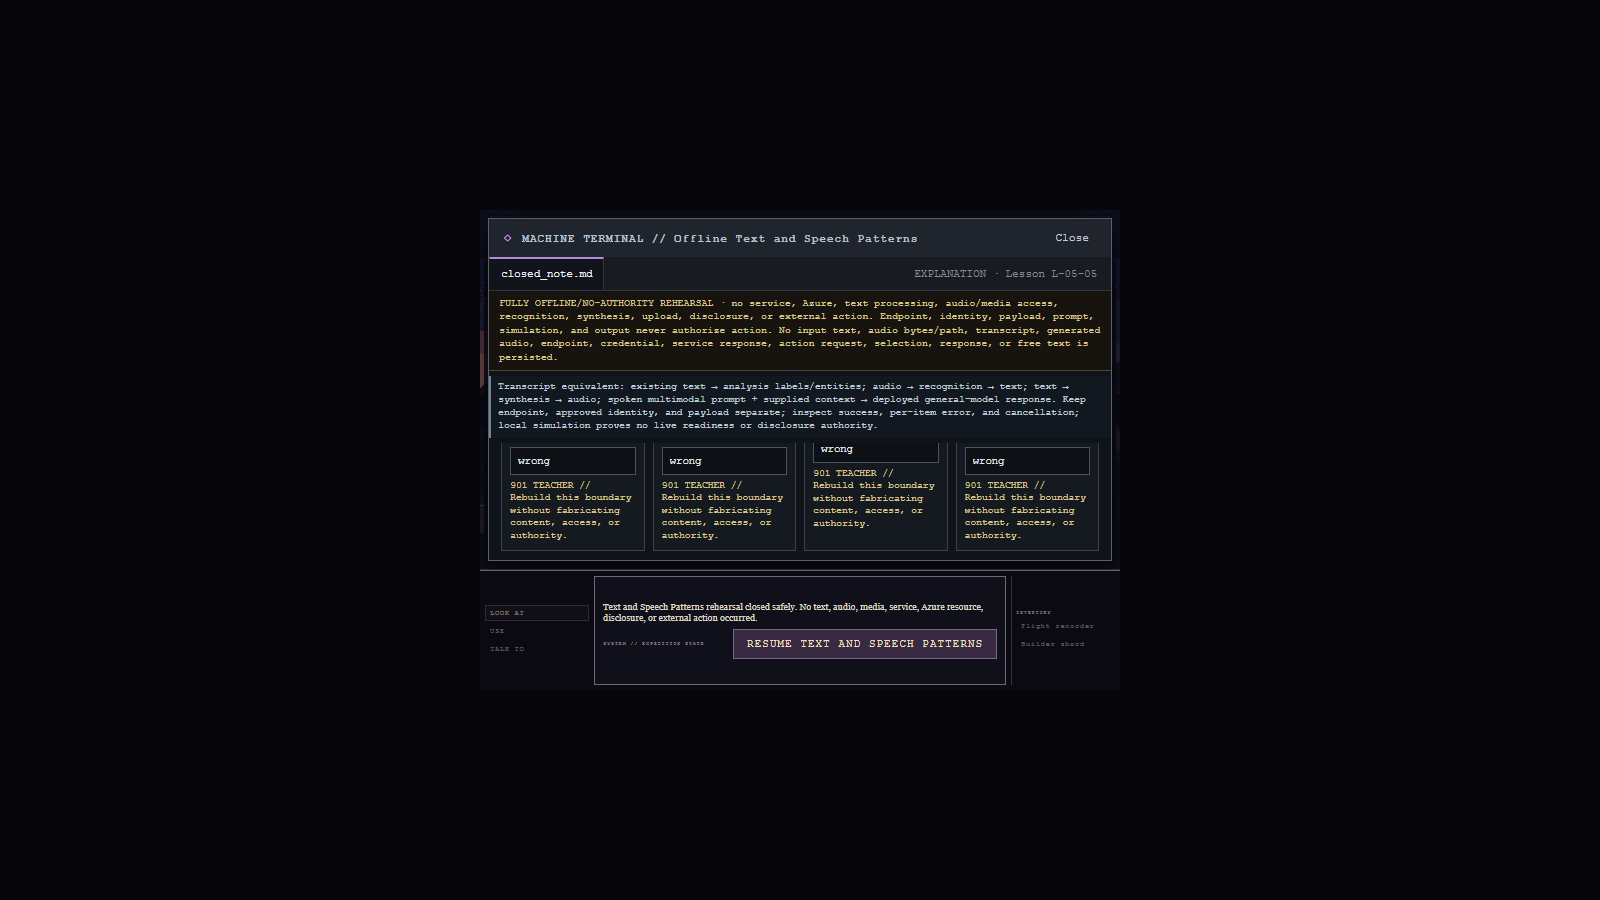
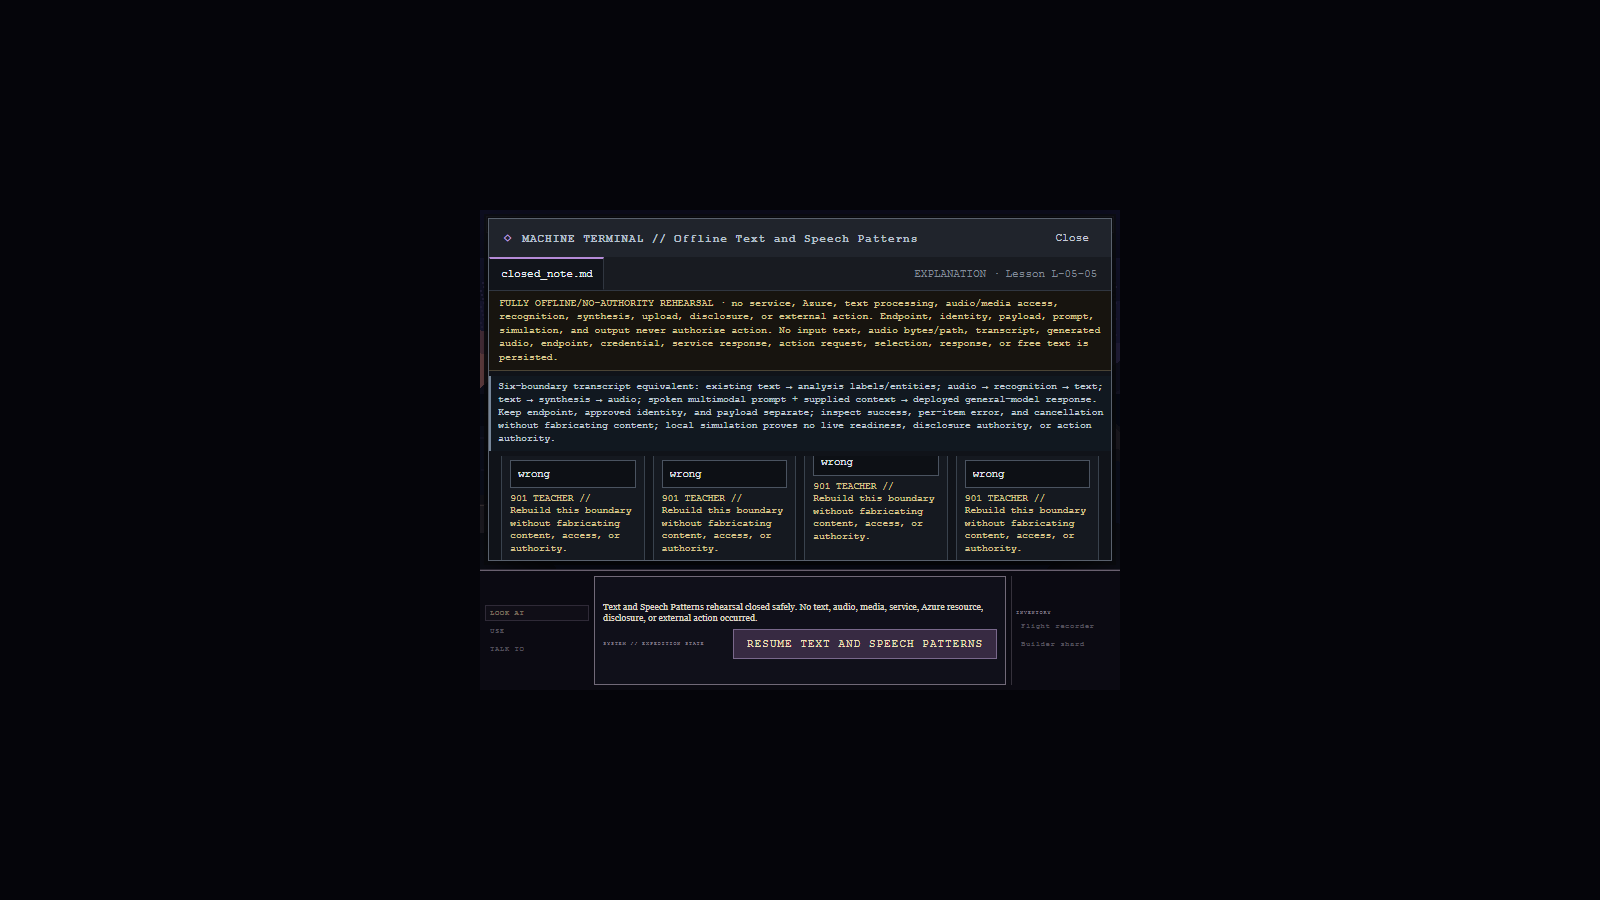
Round 21 step 5 Exercise Agent checkpoint

Changed region(s): [[0.3125, 0.4044, 0.6875, 0.6222]]

diff --git a/horizon-archive-game/test/textSpeechPatternExercise.test.js b/horizon-archive-game/test/textSpeechPatternExercise.test.js
@@ -2,11 +2,12 @@ import test from "node:test";
 import assert from "node:assert/strict";
 import primary from "../../curriculum/lessons/L-05-05/reference_primary_answers.json" with { type: "json" };
 import transfer from "../../curriculum/lessons/L-05-05/reference_transfer_answers.json" with { type: "json" };
-import { evaluateTextSpeechPatternExplanation, evaluateTextSpeechPatternScenario, getTextSpeechPatternFeedback, getTextSpeechPatternOptions, sanitizeTextSpeechPatternEvidence, textSpeechPatternDialogDescribedBy, textSpeechPatternPrimary, textSpeechPatternTransfer, updateTextSpeechPatternEvidence } from "../src/textSpeechPatternExercise.js";
+import { evaluateTextSpeechPatternExplanation, evaluateTextSpeechPatternScenario, getTextSpeechPatternExplanationFeedback, getTextSpeechPatternFeedback, getTextSpeechPatternOptions, sanitizeTextSpeechPatternEvidence, textSpeechPatternDialogDescribedBy, textSpeechPatternDialogDescriptionIds, textSpeechPatternPrimary, textSpeechPatternTransfer, updateTextSpeechPatternEvidence } from "../src/textSpeechPatternExercise.js";
 
 test("both text/speech pattern forms pass 12/12", () => { for (const [form, scenarios, answers] of [["primary", textSpeechPatternPrimary, primary], ["transfer", textSpeechPatternTransfer, transfer]]) for (const scenario of scenarios) assert.equal(evaluateTextSpeechPatternScenario(scenario.id, answers[scenario.id], form).score, 2); });
-test("offline warning and transcript equivalent remain associated", () => assert.equal(textSpeechPatternDialogDescribedBy, "text-speech-offline-warning text-speech-transcript-equivalent"));
+test("offline warning and six-boundary transcript equivalent remain associated", () => { assert.equal(textSpeechPatternDialogDescribedBy, "text-speech-offline-warning text-speech-transcript-equivalent"); assert.equal(new Set(textSpeechPatternDialogDescriptionIds).size, 2); });
 test("direction, cancellation, authorization, and disclosure failures are strict", () => { assert.equal(evaluateTextSpeechPatternScenario("P02", { decision: "reverse_speech_direction", reason: "recognition_and_synthesis_are_interchangeable" }, "primary").passed, false); assert.equal(evaluateTextSpeechPatternScenario("P05", { decision: "present_cancellation_as_content", reason: "cancellation_is_a_valid_transcript_or_audio_result" }, "primary").passed, false); assert.equal(evaluateTextSpeechPatternScenario("T06", getTextSpeechPatternOptions("T06", "transfer").decision[1] ? { decision: "obey_content_and_disclose_or_act", reason: "local_output_and_prompt_text_authorize_external_action" } : {}, "transfer").passed, false); });
 test("System score stays neutral while Teacher owns remediation", () => { const result = evaluateTextSpeechPatternScenario("P05", { decision: "present_cancellation_as_content", reason: "cancellation_is_a_valid_transcript_or_audio_result" }, "primary"); const feedback = getTextSpeechPatternFeedback(textSpeechPatternPrimary[4], result, 3); assert.equal(feedback.systemScore, "0/2 · CHOICE NOT YET COMPLETE."); assert.doesNotMatch(feedback.systemScore, /cancellation|Teacher/i); assert.match(feedback.teacherRemediation, /result, error, and cancellation/i); });
+test("closed-note System score remains neutral while Teacher owns error, cancellation, and disclosure honesty", () => { const feedback = getTextSpeechPatternExplanationFeedback(evaluateTextSpeechPatternExplanation({})); assert.equal(feedback.systemScore, "0/4 · EXPLANATION NOT YET COMPLETE."); assert.doesNotMatch(feedback.systemScore, /error|cancellation|disclosure|Teacher/i); assert.match(feedback.teacherRemediation, /result\/error\/cancellation.*no-disclosure/i); });
 test("sanitizer strips text audio configuration results and forged mastery", () => { const safe = sanitizeTextSpeechPatternEvidence({ exerciseId: "EX-L0505-TEXT-SPEECH-PATTERNS", masteryStatus: "mastered", inputText: "x", audioBytes: "x", audioPath: "x", transcript: "x", generatedAudio: "x", endpoint: "x", credential: "x", serviceResponse: "x", externalActionRequest: "x", response: "x", choices: "x", freeText: "x" }); assert.notEqual(safe.masteryStatus, "mastered"); for (const key of ["inputText", "audioBytes", "audioPath", "transcript", "generatedAudio", "endpoint", "credential", "serviceResponse", "externalActionRequest", "response", "choices", "freeText"]) assert.equal(key in safe, false); });
 test("complete evidence reaches strict mastery without prose", () => { let evidence = updateTextSpeechPatternEvidence(null, {}); for (const [form, scenarios, answers] of [["primary", textSpeechPatternPrimary, primary], ["transfer", textSpeechPatternTransfer, transfer]]) for (const scenario of scenarios) evidence = updateTextSpeechPatternEvidence(evidence, { form, scenarioId: scenario.id, correctness: evaluateTextSpeechPatternScenario(scenario.id, answers[scenario.id], form).correctness }); evidence = updateTextSpeechPatternEvidence(evidence, { form: "explanation", scenarioId: "explanation", correctness: evaluateTextSpeechPatternExplanation({ capability_direction: "choose capability from input and required output including recognition audio to text and synthesis text to audio", configuration_payload: "keep endpoint identity and payload separate and never hardcode credentials", result_cancellation: "inspect per item result error and cancellation and never fabricate content", simulation_authority: "offline output proves no live readiness and never authorizes disclosure or external action" }).correctness, masteryStatus: "mastered" }); assert.equal(evidence.masteryStatus, "mastered"); });

diff --git a/horizon-archive-game/src/App.jsx b/horizon-archive-game/src/App.jsx
@@ -2964,7 +2964,7 @@ export function App() {
           <TerminalShell exerciseId={textSpeechPatternExercise.exercise_id} title="Offline Text and Speech Patterns" filename={textSpeechPatternSession.phase === "explanation" ? "closed_note.md" : `${textSpeechPatternSession.form}_patterns.json`} lessonId={textSpeechPatternExercise.lesson_id} statusText={textSpeechPatternSession.phase.toUpperCase()} closeLabel="Exit Text and Speech Patterns" describedBy={textSpeechPatternDialogDescribedBy} restoreFocusTo={terminalTriggerRef.current} onClose={exitTextSpeechPatterns}>
             <section className="model-choice-workspace text-speech-pattern-workspace">
               <p id="text-speech-offline-warning" className="model-choice-boundary" role="note">FULLY OFFLINE/NO-AUTHORITY REHEARSAL · no service, Azure, text processing, audio/media access, recognition, synthesis, upload, disclosure, or external action. Endpoint, identity, payload, prompt, simulation, and output never authorize action. No input text, audio bytes/path, transcript, generated audio, endpoint, credential, service response, action request, selection, response, or free text is persisted.</p>
-              <p id="text-speech-transcript-equivalent" className="speech-transcript">Transcript equivalent: existing text → analysis labels/entities; audio → recognition → text; text → synthesis → audio; spoken multimodal prompt + supplied context → deployed general-model response. Keep endpoint, approved identity, and payload separate; inspect success, per-item error, and cancellation; local simulation proves no live readiness or disclosure authority.</p>
+              <p id="text-speech-transcript-equivalent" className="speech-transcript">Six-boundary transcript equivalent: existing text → analysis labels/entities; audio → recognition → text; text → synthesis → audio; spoken multimodal prompt + supplied context → deployed general-model response. Keep endpoint, approved identity, and payload separate; inspect success, per-item error, and cancellation without fabricating content; local simulation proves no live readiness, disclosure authority, or action authority.</p>
               {textSpeechPatternSession.phase === "explanation" ? (
                 <form className="model-choice-form" onSubmit={checkTextSpeechPatternExplanation}><header><p className="pane-label">PILOT // CLOSED-NOTE PATTERN OWNER</p><h2>Explain capability direction, client boundaries, honest results, and simulation authority</h2><p>Your prose is session-only. SYSTEM scores it; the 901 TEACHER owns remediation and readiness.</p></header><div className="model-choice-fields text-speech-pattern-explanation">{textSpeechPatternExplanationDimensions.map((dimension)=>{const correct=textSpeechPatternSession.explanationResult?.correctness[dimension],id=`text-speech-pattern-explanation-${dimension}-feedback`;return <label key={dimension}><span>{dimension.replaceAll("_"," ")}</span><input aria-label={`Closed-note text speech ${dimension}`} aria-invalid={textSpeechPatternSession.explanationResult?!correct:undefined} aria-describedby={textSpeechPatternSession.explanationResult?id:undefined} value={textSpeechPatternSession.explanationResponse[dimension]} onChange={(event)=>setTextSpeechPatternSession({...textSpeechPatternSession,explanationResponse:{...textSpeechPatternSession.explanationResponse,[dimension]:event.target.value},explanationResult:null,ownershipConfirmed:false})}/>{textSpeechPatternSession.explanationResult&&<small id={id}>{correct?"SYSTEM // Confirmed.":"901 TEACHER // Rebuild this boundary without fabricating content, access, or authority."}</small>}</label>;})}</div><section className="terminal-console model-choice-output"><div className="console-heading-row"><strong>SYSTEM // CLOSED-NOTE VALIDATOR</strong><button className="run-action" type="submit">Check text/speech explanation</button></div><div role="status" aria-live="polite">{getTextSpeechPatternExplanationFeedback(textSpeechPatternSession.explanationResult).systemScore}</div>{getTextSpeechPatternExplanationFeedback(textSpeechPatternSession.explanationResult).teacherRemediation&&<p className="teacher-remediation"><strong>901 TEACHER // TEXT/SPEECH REMEDIATION</strong><span>{getTextSpeechPatternExplanationFeedback(textSpeechPatternSession.explanationResult).teacherRemediation}</span></p>}{textSpeechPatternSession.explanationResult?.passed&&<><label className="ownership-confirmation"><input type="checkbox" checked={textSpeechPatternSession.ownershipConfirmed} onChange={(event)=>setTextSpeechPatternSession({...textSpeechPatternSession,ownershipConfirmed:event.target.checked})}/>I produced this text/speech explanation myself without notes.</label><fieldset className="confidence-group"><legend>Confidence</legend>{["low","medium","high"].map(value=><label key={value}><input type="radio" name="text-speech-pattern-confidence" checked={textSpeechPatternEvidence?.confidence===value} onChange={()=>setTextSpeechPatternEvidence(previous=>updateTextSpeechPatternEvidence(previous,{confidence:value}))}/>{value}</label>)}</fieldset><button className="confirm-action" type="button" onClick={acknowledgeTextSpeechPatternMastery}>Acknowledge strict mastery</button></>}</section></form>
               ) : textSpeechPatternSession.complete ? (

diff --git a/horizon-archive-game/src/textSpeechPatternExercise.js b/horizon-archive-game/src/textSpeechPatternExercise.js
@@ -27,7 +27,7 @@ export function evaluateTextSpeechPatternScenario(id, response, form = id?.start
 export function evaluateTextSpeechPatternExplanation(response) { const expected = { capability_direction: "choose_capability_from_input_and_required_output_including_recognition_audio_to_text_and_synthesis_text_to_audio", configuration_payload: "keep_endpoint_identity_and_payload_separate_and_never_hardcode_credentials", result_cancellation: "inspect_per_item_result_error_and_cancellation_and_never_fabricate_content", simulation_authority: "offline_output_proves_no_live_readiness_and_never_authorizes_disclosure_or_external_action" }; const correctness = Object.fromEntries(textSpeechPatternExplanationDimensions.map((key) => [key, normalize(response[key]) === expected[key]])); return { correctness, score: Object.values(correctness).filter(Boolean).length, passed: Object.values(correctness).every(Boolean) }; }
 export function textSpeechPatternRemediation(_scenario, _response, level) { if (level <= 1) return "Name the input modality, required output, and failed text, speech, client, result, or authority boundary."; if (level === 2) return "Choose the smallest sufficient capability and separate endpoint, approved identity, and payload."; return "Inspect result, error, and cancellation states; local simulation never proves live readiness or authorizes disclosure or action."; }
 export function getTextSpeechPatternFeedback(scenario, result, level) { if (!result) return { systemScore: "Awaiting both text/speech pattern dimensions.", teacherRemediation: null }; return { systemScore: `${result.score}/2 · ${result.passed ? "CHOICE PASS · both dimensions confirmed." : "CHOICE NOT YET COMPLETE."}`, teacherRemediation: result.passed ? null : textSpeechPatternRemediation(scenario, result, level) }; }
-export function getTextSpeechPatternExplanationFeedback(result) { if (!result) return { systemScore: "Awaiting the learner's four-part text/speech explanation.", teacherRemediation: null }; return { systemScore: `${result.score}/4 · ${result.passed ? "PASS" : "EXPLANATION NOT YET COMPLETE."}`, teacherRemediation: result.passed ? null : "Rebuild capability direction, endpoint/identity/payload separation, honest result/cancellation handling, and simulation/no-action authority." }; }
+export function getTextSpeechPatternExplanationFeedback(result) { if (!result) return { systemScore: "Awaiting the learner's four-part text/speech explanation.", teacherRemediation: null }; return { systemScore: `${result.score}/4 · ${result.passed ? "PASS" : "EXPLANATION NOT YET COMPLETE."}`, teacherRemediation: result.passed ? null : "Rebuild capability direction, endpoint/identity/payload separation, honest result/error/cancellation handling, and simulation/no-disclosure/no-action authority." }; }
 
 const complete = (correctness, scenarios) => scenarios.every((scenario) => exercise.dimensions.every((key) => correctness[scenario.id]?.[key] === true));
 export function sanitizeTextSpeechPatternEvidence(value) { if (!value || typeof value !== "object" || value.exerciseId !== exercise.exercise_id) return null; const dimensionCorrectness = {}; for (const scenario of [...allScenarios, { id: "explanation", dimensions: textSpeechPatternExplanationDimensions }]) { const keys = scenario.dimensions || exercise.dimensions; if (value.dimensionCorrectness?.[scenario.id]) dimensionCorrectness[scenario.id] = Object.fromEntries(keys.filter((key) => typeof value.dimensionCorrectness[scenario.id][key] === "boolean").map((key) => [key, value.dimensionCorrectness[scenario.id][key]])); } const strict = complete(dimensionCorrectness, textSpeechPatternPrimary) && complete(dimensionCorrectness, textSpeechPatternTransfer) && textSpeechPatternExplanationDimensions.every((key) => dimensionCorrectness.explanation?.[key] === true); let masteryStatus = ["in_progress", "remediation_required", "primary_complete", "transfer_complete", "mastered"].includes(value.masteryStatus) ? value.masteryStatus : "in_progress"; if (masteryStatus === "mastered" && !strict) masteryStatus = complete(dimensionCorrectness, textSpeechPatternTransfer) ? "transfer_complete" : complete(dimensionCorrectness, textSpeechPatternPrimary) ? "primary_complete" : "in_progress"; return { exerciseId: exercise.exercise_id, lessonId: exercise.lesson_id, activityId: exercise.activity_id, assessmentIds: [...exercise.assessment_ids], objectiveIds: [...exercise.objective_ids], skillIds: [...exercise.skill_ids], form: ["primary", "transfer", "explanation"].includes(value.form) ? value.form : "primary", dimensionCorrectness, attemptCount: Number.isInteger(value.attemptCount) ? value.attemptCount : 0, hintLevel: Number.isInteger(value.hintLevel) ? value.hintLevel : 0, confidence: ["low", "medium", "high"].includes(value.confidence) ? value.confidence : null, misconceptionTags: Array.isArray(value.misconceptionTags) ? [...new Set(value.misconceptionTags.filter((tag) => validTags.has(tag)))] : [], masteryStatus }; }

diff --git a/Exercise Development/WORK_LOG.md b/Exercise Development/WORK_LOG.md
@@ -1,5 +1,16 @@
 # Exercise Agent Work Log
 
+## 2026-07-12 — Text/Speech Patterns continuity closure
+
+- **Outcome:** Closed only the L-05-05 continuity contract. The runtime already had neutral System scoring, separate 901 Teacher remediation/completion, Pilot-owned session-only closed-note prose, strict forms, sanitizer/privacy, and dedicated direct/reload focus. Added focused proof for closed-note System/Teacher separation and tightened the persistent boundary language.
+- **Persistent safety/text:** Primary, transfer, and closed-note retain the fully offline/no-service/no-Azure/no-text-processing/no-audio-media/no-upload/no-disclosure/no-external-action warning plus a now-explicit six-boundary transcript equivalent.
+- **Honesty:** The persistent equivalent now requires honest success, per-item error, and cancellation branching without fabricated content, and states that local simulation grants neither live readiness, disclosure authority, nor action authority. Existing strict scenarios reject cancellation-as-content and unauthorized disclosure/action.
+- **Preserved contracts:** Primary 12/12, fresh transfer 12/12, four-part closed note, sanitizer/privacy, close/reopen, canonical/narrow presentation, field associations, three distinct captures, and direct/sanitized-reload Continue focus remain intact. No L-05-06/L-06-01 gameplay was added.
+- **Files changed:** `textSpeechPatternExercise.js`, its focused tests, `App.jsx`, full E2E, refreshed Text/Speech captures, and this log.
+- **Validation:** L-05-05 self-test passes; primary and transfer references each pass 12/12; 122/122 unit tests pass; production build passes; full title-to-credits E2E passes with zero runtime errors; diff check passes.
+- **Next recommended item:** Player Agent should independently challenge recognition/synthesis reversals, cancellation-as-content, per-item errors, unauthorized disclosure/action, keyboard order, transcript announcement, and narrow reading order.
+- **Unresolved risks:** This is an offline rehearsal with no service call, text processing, audio access, recognition, synthesis, upload, disclosure, or external action.
+
 ## 2026-07-12 — L-05-05 Offline Text and Speech Patterns mandatory Terminal gate
 
 - **Outcome:** Mounted `EX-L0505-TEXT-SPEECH-PATTERNS` after Single Agent as a mandatory gate. Primary and fresh transfer each require 12/12, followed by a four-part closed-note explanation. No L-05-06 work was added.
